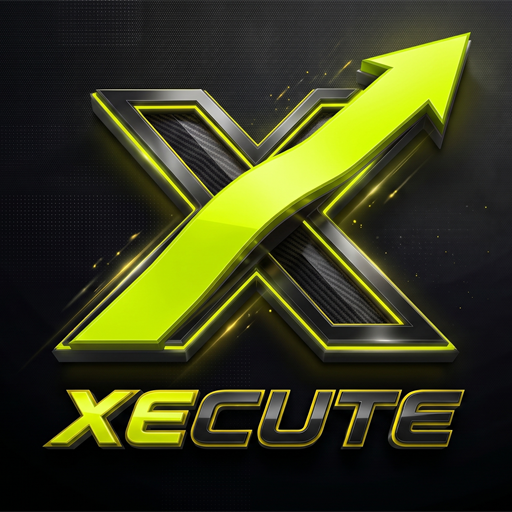
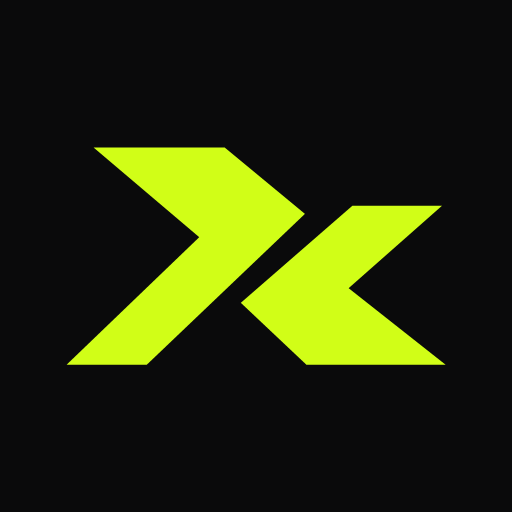
modifica

diff --git a/app/index.html b/app/index.html
@@ -4,18 +4,18 @@
   <meta charset="UTF-8">
   <meta name="viewport" content="width=device-width, initial-scale=1.0">
   <meta name="theme-color" content="#0a0a0b">
-  <meta name="description" content="XECUTE: calendario, lezioni, routine, spese e obiettivi in un'unica app.">
-  <title>XECUTE</title>
-  <link rel="icon" href="img/icona.svg" type="image/svg+xml">
+  <meta name="description" content="X-ECUTE: calendario, lezioni, routine, spese e obiettivi in un'unica app.">
+  <title>X-ECUTE</title>
+  <link rel="icon" href="img/icona.svg?v=2" type="image/svg+xml">
   <link rel="manifest" href="manifest.webmanifest">
   <!-- iPhone: icona sulla schermata Home e nome sotto l'icona -->
-  <link rel="apple-touch-icon" href="img/apple-touch-icon.png">
-  <meta name="apple-mobile-web-app-title" content="XECUTE">
+  <link rel="apple-touch-icon" href="img/apple-touch-icon.png?v=2">
+  <meta name="apple-mobile-web-app-title" content="X-ECUTE">
   <meta name="apple-mobile-web-app-capable" content="yes">
   <meta name="apple-mobile-web-app-status-bar-style" content="black-translucent">
   <link rel="preconnect" href="https://fonts.googleapis.com">
   <link rel="preconnect" href="https://fonts.gstatic.com" crossorigin>
-  <link href="https://fonts.googleapis.com/css2?family=Plus+Jakarta+Sans:wght@400;500;600;700;800&display=swap" rel="stylesheet">
+  <link href="https://fonts.googleapis.com/css2?family=Plus+Jakarta+Sans:ital,wght@0,400;0,500;0,600;0,700;0,800;1,800&display=swap" rel="stylesheet">
   <link rel="stylesheet" href="style.css">
 </head>
 <body>
@@ -23,7 +23,7 @@
 
     <!-- ===== Barra a sinistra ===== -->
     <aside class="barra-laterale">
-      <a class="logo" href="#home"><img class="logo-segno" src="img/logo.svg" alt=""> <span class="logo-nome">XECUTE</span></a>
+      <a class="logo" href="#home"><img class="logo-segno" src="img/logo.svg" alt=""> <span class="logo-nome">X-ECUTE</span></a>
 
       <!-- le voci del menu le crea app.js -->
       <nav class="menu" id="menu"></nav>

diff --git a/app/style.css b/app/style.css
@@ -87,8 +87,8 @@ button:disabled { cursor: not-allowed; opacity: 0.5; }
 }
 
 .logo { font-size: 20px; font-weight: 800; letter-spacing: -0.02em; padding: 0 10px; display: flex; gap: 10px; align-items: center; }
-.logo-segno { width: 30px; height: 30px; display: block; flex-shrink: 0; }
-.logo-nome { font-style: italic; font-weight: 800; letter-spacing: 0.04em; color: #c6f31a; }
+.logo-segno { width: 34px; height: auto; display: block; flex-shrink: 0; }
+.logo-nome { font-style: italic; font-weight: 800; letter-spacing: 0.01em; color: #f5f5f0; }
 
 .menu { display: flex; flex-direction: column; gap: 4px; }
 
@@ -1457,14 +1457,10 @@ body.fuori .guscio, body.fuori .bottone-piu { visibility: hidden; }
   border: 1px solid var(--bordo); box-shadow: 0 30px 80px -30px rgba(0, 0, 0, 0.9), inset 0 1px 0 rgba(255, 255, 255, 0.06);
 }
 .accesso-logo { padding: 0; font-size: 18px; }
-/* logo grande in cima alla scatola di login, da bordo a bordo, che sfuma in basso */
-.accesso-copertina {
-  display: block; width: calc(100% + 56px); margin: -30px -28px 0;
-  aspect-ratio: 1200 / 670; object-fit: cover;
-  border-radius: 26px 26px 0 0;
-  -webkit-mask-image: linear-gradient(to bottom, #000 75%, transparent);
-  mask-image: linear-gradient(to bottom, #000 75%, transparent);
-}
+/* logo grande in cima alla scatola di login: la X verde + la scritta X-ECUTE bianca */
+.accesso-marchio { display: flex; align-items: center; justify-content: center; gap: 14px; padding: 10px 0 14px; }
+.accesso-marchio img { width: 62px; height: auto; }
+.accesso-marchio .logo-nome { font-size: 34px; line-height: 1; }
 .accesso-box h2 { margin: 6px 0 0; font-size: 26px; letter-spacing: -0.02em; }
 .accesso-schede { align-self: stretch; }
 .accesso-schede button { flex: 1; }

diff --git a/app/js/accesso.js b/app/js/accesso.js
@@ -134,7 +134,8 @@ function mostraAccesso(errore, quandoDentro) {
 
   const schermata = h("div", { class: "accesso", id: "accesso" },
     h("div", { class: "accesso-box" },
-      h("img", { class: "accesso-copertina", src: "img/logo-grande.jpg", alt: "XECUTE" }),
+      h("div", { class: "accesso-marchio" },
+        h("img", { src: "img/logo.svg", alt: "" }), h("span", { class: "logo-nome" }, "X-ECUTE")),
       h("h2", {}, modoAccesso === "accedi" ? "Bentornato" : modoAccesso === "registrati" ? "Crea il tuo account" : "Password dimenticata"),
       h("p", { class: "testo-leggero" }, modoAccesso === "recupero"
         ? "Scrivi la tua email: ti mandiamo un link per scegliere una nuova password."

diff --git a/app/js/configurazione.js b/app/js/configurazione.js
@@ -71,7 +71,7 @@ function apriConfigurazione() {
   // ---------- I passi ----------
   const passi = [
     {
-      titolo: giaFatta ? "Rifacciamo la configurazione" : "Benvenuto in XECUTE",
+      titolo: giaFatta ? "Rifacciamo la configurazione" : "Benvenuto in X-ECUTE",
       testo: giaFatta
         ? "Ritrovi già scelto quello che hai. Cambia quello che vuoi: niente si salva finché non arrivi alla fine."
         : "Configuriamo l'app insieme: ci vogliono 2 minuti. Ti propongo delle idee, tu tocchi quelle che ti servono. Tutto si può cambiare anche dopo.",

diff --git a/supabase/functions/assistente/index.ts b/supabase/functions/assistente/index.ts
@@ -42,7 +42,7 @@ function chiavePubblica(): string {
 }
 
 // Istruzioni fisse per Claude (sempre uguali: così si possono riusare in cache).
-const ISTRUZIONI = `Sei l'assistente di "XECUTE", un'app personale per organizzare scuola, allenamenti e impegni.
+const ISTRUZIONI = `Sei l'assistente di "X-ECUTE", un'app personale per organizzare scuola, allenamenti e impegni.
 Parli in italiano, in modo semplice, amichevole e breve.
 Ricevi gli eventi dell'utente dei prossimi giorni e una sua richiesta.
 Regole:
